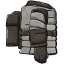
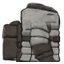
feat(crew): a suit's card is cut from the hero wearing it, waist up; skins show theirs

diff --git a/tools/anime-art/subjects/items.js b/tools/anime-art/subjects/items.js
@@ -832,26 +832,6 @@ P.jetpack = (a) => {
   for (const y of [5, 9.8]) a.shape(rr(.7, y, 14.6, 1.5, .2), GUN, { lite: band(.7, y, 15.3, y + .5), shade: band(.7, y + 1, 15.3, y + 1.5) });
   rivets(a, [8, 5.7], [8, 10.5]);
 };
-P.suit = (a) => {
-  // The patched coverall laid out flat (the basic suit, painted raw): drab olive canvas, the belt and straps grey, the collar's
-  // ring, rust-brown patches let in at the chest and a knee, stitched round.
-  const CANVAS = { base: '#7e7052', shade: '#5c5040', deep: '#433a30', lite: '#9c8e68', spec: '#bcae88' };
-  const MEND = { base: '#8a5a3e', shade: '#64402e', deep: '#4a3024', lite: '#a8744e' };
-  a.shape('M4.6 2.2L11.4 2.2L14.6 4L15.4 11.6L13 12.4L12.2 7.2L12 14.4L9 15.2L8 11.6L7 15.2L4 14.4L3.8 7.2L3 12.4L.6 11.6L1.4 4Z', CANVAS, {
-    lite: 'M4.6 2.2L8 2.2L7 5L4 6L3.6 7L3 12.4L2 12L2.4 4.2Z', shade: 'M11.4 2.2L14.6 4L15.4 11.6L14 12L13.4 5.4L12.2 7.2L12 14.4L10.6 14.8L10.8 3.6Z', deep: 'M4 13.4L7.4 13.4L7 15.2L4 14.4ZM8.6 13.4L12 13.4L12 14.4L9 15.2Z',
-    lines: ['M8 3.4L8 11.6', 'M3.8 7.2L3.2 4.4', 'M12.2 7.2L12.8 4.4'] });
-  const mend = (x, y, w, h) => {
-    a.shape(poly(x, y + .1, x + w, y, x + w + .1, y + h, x + .1, y + h + .1), MEND, { outer: false, shade: poly(x, y + h - .5, x + w + .1, y + h - .5, x + w + .1, y + h, x + .1, y + h + .1) });
-    let st = '';
-    for (let i = x + .3; i < x + w; i += .7) st += `M${i} ${y - .1}L${i + .1} ${y + .25}M${i} ${y + h - .15}L${i + .1} ${y + h + .2}`;
-    a.line(st, { w: .8 });
-  };
-  mend(9.2, 5, 2.2, 2); mend(4.6, 11.2, 2, 1.8);
-  a.shape(rr(3.8, 9, 8.4, 1.3, .15), GUN, { lite: band(3.8, 9, 12.2, 9.4), shade: band(3.8, 9.9, 12.2, 10.3) });
-  a.flat(rr(7.1, 8.8, 1.8, 1.7, .2), '#c0c8d0');
-  a.shape(ell(8, 2.6, 2.7, 1.3), DARK, { outer: false, deep: ell(8, 2.8, 2, .8) });
-  a.tube('M5.6 3.4L5.2 9', .8, GUN, { spec: false, bare: true }); a.tube('M10.4 3.4L10.8 9', .8, GUN, { spec: false, bare: true });
-};
 P.cape = (a) => {
   // The cloak bundled on itself, tied at the top: sand canvas in a few long folds, its teal lining turned out at both corners.
   const CANVAS = { base: '#a8895e', shade: '#755c44', deep: '#544234', lite: '#c8ac80', spec: '#e0cca4' };

diff --git a/tools/anime-art/subjects/heatSuit.js b/tools/anime-art/subjects/heatSuit.js
@@ -24,24 +24,17 @@ const STRAIGHT = {
   shin: { from: .37, to: .565, ramp: .1, smooth: .5, left: .8, right: null },
 };
 const SIZE = { torso: [12, 15], pack: [4, 12], upperArm: [5, 9], forearm: [5, 10], thigh: [6, 12], shin: [9, 11] };
-/** Where each part's picture lies on the card's jacket: its joint's place, less the joint (Figure.cs's Joints). */
-const STAND = { pack: [-3, 1.5], torso: [0, 0], upperArm: [3.5, .6], forearm: [3.5, 6.3] };
 
 const piece = (name) => 'heatSuit.' + name;
-/** A part's drawing in its picture's pixels, moved by `by`; k its units per world pixel (traced.js's drawer), the part's own by default. */
-function drawOf(name, by = [0, 0], k = null) {
-  const b = BOX[name], box = [b[0] + by[0], b[1] + by[1], b[2] + by[0], b[3] + by[1]], { s, at } = Traced.into(piece(name), box);
+/** A part's drawing in its picture's pixels (its card is cut from the hero wearing it: dev/SuitCards.cs). */
+function drawOf(name) {
+  const box = BOX[name], { s, at } = Traced.into(piece(name), box);
   let ops = Traced.placed(piece(name), s, at);
   if (STRAIGHT[name]) ops = Traced.straighten(ops, box, STRAIGHT[name]);
-  return Traced.drawer(piece(name), ops, k ?? TRACED[piece(name)].fit.units * (s[0] + s[1]) / 2);
+  return Traced.drawer(piece(name), ops, TRACED[piece(name)].fit.units * (s[0] + s[1]) / 2);
 }
 
 Subjects.heatSuit = function () {
   for (const name of Object.keys(BOX)) out(`hero_heatSuit_${name}`, HeroKit.part({ w: SIZE[name][0], h: SIZE[name][1], draw: drawOf(name) }));
-  // The card: the jacket as worn, the pack behind and the near arm hanging, fitted into the icon's 16.
-  const box = [-3.4, -1.4, 11.4, 17.8], u = (box[3] - box[1]) / 15.4, L = Anime.LINE;
-  const draws = ['pack', 'torso', 'upperArm', 'forearm'].map((n) => drawOf(n, STAND[n], u));
-  out('items/heatSuit', Anime.bake({ w: 16, h: 16, light: [-0.6, -0.8], units: u, shift: [(16 * u - (box[2] - box[0])) / 2 - box[0], (16 * u - (box[3] - box[1])) / 2 - box[1]],
-    W: { outer: L.outer * u, edge: L.edge * u, panel: L.panel * u }, draw: (a) => draws.forEach((d) => d(a)) }));
 };
 })();

diff --git a/tools/anime-art/subjects/hero.js b/tools/anime-art/subjects/hero.js
@@ -739,19 +739,6 @@ const regenSuit = {
     boot(a, BELL_RUBBER, 6.2, ['M4 6.8L4.5 9', 'M5.2 6.9L5.6 9']);
   },
 };
-/** The laid-out suit of the item card, as items/suit lies. */
-const LAID = 'M4.6 2.2L11.4 2.2L14.6 4L15.4 11.6L13 12.4L12.2 7.2L12 14.4L9 15.2L8 11.6L7 15.2L4 14.4L3.8 7.2L3 12.4L.6 11.6L1.4 4Z';
-function regenSuitCard(a) {
-  a.shape(LAID, QUILT, { lite: 'M4.6 2.2L8 2.2L7 5L4 6L3.6 7L3 12.4L2 12L2.4 4.2Z', shade: 'M11.4 2.2L14.6 4L15.4 11.6L14 12L13.4 5.4L12.2 7.2L12 14.4L10.6 14.8L10.8 3.6Z',
-    deep: 'M4 13.4L7.4 13.4L7 15.2L4 14.4ZM8.6 13.4L12 13.4L12 14.4L9 15.2Z', lines: ['M8 9.4L8 11.6', 'M3.8 7.2L3.2 4.4', 'M12.2 7.2L12.8 4.4', ...quilt(1, 2.4, 15, 14.8, 3)] });
-  cable(a, [4.4, 11.4, 6.6, 7, 11.4, 3.4], 3); cable(a, [11.6, 11.4, 9.4, 7, 4.6, 3.4], 3);
-  a.shape(rr(9.6, 10.6, 2.6, 2, .4), GUNM, { lite: band(9.7, 10.6, 12.1, 11) });
-  a.shape('M4.2 2C6 1.4 10 1.4 11.8 2L12.2 4.2L11.2 5.6L4.8 5.6L3.8 4.2Z', BELL_BRASS, { lite: band(4.2, 1.4, 11.8, 2.3), shade: band(3.8, 4.8, 12.2, 5.6) });
-  a.shape(ell(8, 2.6, 2, .9), DARKM, { outer: false });
-  for (const x of [5.6, 6.6, 8.8, 9.8]) a.flat(rr(x, 3.8, .45, 1.4, .12), UNLIT);
-  a.glow(rr(6.6, 3.8, .45, 1.4, .12), '#5c4898');
-  rustAt(a, 4.4, 4.6, .4);
-}
 /** A light drawn straight on a part's canvas, at its margin: a soft halo, then its core. */
 function lightPicture(w, h, draw) {
   const c = canvas((w + 2 * Margin) * Px, (h + 2 * Margin) * Px), x = c.getContext('2d');
@@ -842,7 +829,6 @@ Subjects.hero = function () {
     }
   }));
   out('hero_regenSuit_pip', lightPicture(12, 15, (paint) => paint(ell(10.2, 11.5, .4), PIP, PIP)));
-  out('items/regenSuit', bake({ w: 16, h: 16, light: [-0.6, -0.8], draw: regenSuitCard }));
 };
 
 /** A helmet's two pictures: the shell with its glass taken out (what crosses the glass, <paramref name="bars"/>, kept), and the glass alone at GLASS_SEEN over the face. */

diff --git a/game/dev/SuitCards.cs b/game/dev/SuitCards.cs
@@ -1,0 +1,106 @@
+using System;
+using System.Collections.Generic;
+using System.Linq;
+using Godot;
+using Stillwake.Game.Features.Crew;
+using Stillwake.Game.Render;
+
+namespace Stillwake.Game.Dev;
+
+/// <summary>
+/// <c>-- --suit-cards=&lt;art folder&gt;</c>: every suit's card, and every suit skin's, cut from the hero wearing it (skins): standing
+/// headless on nothing, from its collar down to just under its hips, fitted to the card. A suit's is written as
+/// <c>items/&lt;id&gt;.png</c>, a skin's as <c>skins/&lt;id&gt;.png</c>; then the game quits. A suit drawn in new parts gets its card
+/// from the rig that wears it, never by hand.
+/// </summary>
+public partial class SuitCards(string folder) : Node
+{
+    /// <summary>The card's side and the room left round the suit on it, in hd pixels.</summary>
+    private const int Card = ItemIcons.Pixels * HiRes.Scale, Room = 2;
+    private const int View = 224;
+    /// <summary>How far under the hip joint the card's foot is cut, a share of the hero's height: the hanging forearm and the top of the thighs show.</summary>
+    private const double UnderHip = 0.07;
+
+    private readonly List<(string Body, string Path)> _cards = [];
+    private SubViewport _view = null!;
+    private Node2D _world = null!;
+    private Figure? _figure;
+    private int _card = -1, _frames;
+
+    public override void _Ready()
+    {
+        foreach (var item in Content.Items.All.Where(i => i.Equip == Stillwake.Content.Suit.Slot)) _cards.Add((item.Id, $"items/{item.Id}.png"));
+        foreach (var skin in Skins.All.Where(s => s.Kind == Skins.Suit)) _cards.Add((skin.Id, $"skins/{skin.Id}.png"));
+        _view = new SubViewport
+        {
+            Size = new Vector2I(View, View),
+            TransparentBg = true,
+            RenderTargetUpdateMode = SubViewport.UpdateMode.Always,
+            CanvasItemDefaultTextureFilter = Viewport.DefaultCanvasItemTextureFilter.Nearest,
+        };
+        AddChild(_view);
+        _world = new Node2D();
+        _view.AddChild(_world);
+        _view.AddChild(new Camera2D { Zoom = new Vector2(HiRes.Scale, HiRes.Scale), Position = new Vector2(0, (float)(-Rig.H / 2)), Enabled = true });
+        Lit.Ambient((1, 1, 1));
+        Next();
+    }
+
+    private void Next()
+    {
+        _card++;
+        _frames = 0;
+        _figure?.QueueFree();
+        _figure = null;
+        if (_card >= _cards.Count)
+        {
+            GD.Print($"suit cards: {_cards.Count} written into {folder}");
+            GetTree().Quit();
+            return;
+        }
+        int colour = Suits.All[0];
+        _figure = new Figure(colour, own: false) { Tracked = false, Headless = true };
+        _figure.Wear(colour, null, _cards[_card].Body);
+        _world.AddChild(_figure);
+        for (int i = 0; i < 40; i++) _figure.Show(new Hero(0, 0, 0, 0, false, 1), Pose.Stand, 0, false, 1000.0 / 60);
+        _figure.Position = Vector2.Zero;
+    }
+
+    public override void _Process(double delta)
+    {
+        if (_card >= _cards.Count || ++_frames < 3) return;
+        var shot = _view.GetTexture().GetImage();
+        shot.Convert(Image.Format.Rgba8);
+        var card = CardOf(shot);
+        string path = $"{folder}/{_cards[_card].Path}";
+        DirAccess.MakeDirRecursiveAbsolute(path.GetBaseDir());
+        card.SavePng(path);
+        Next();
+    }
+
+    // The suit from its top down to the cut under the hips, its colours as drawn (the view's are over nothing, so weighed by their
+    // cover), fitted into the card with room round it, centred.
+    private static Image CardOf(Image shot)
+    {
+        int feet = (int)Math.Round(View / 2 + Rig.H / 2 * HiRes.Scale);
+        int cut = feet - (int)Math.Round((Rig.Hip - Rig.H * UnderHip) * HiRes.Scale);
+        int x0 = View, x1 = -1, y0 = View;
+        for (int y = 0; y < cut; y++)
+            for (int x = 0; x < View; x++)
+                if (shot.GetPixel(x, y).A > 0)
+                    (x0, x1, y0) = (Math.Min(x0, x), Math.Max(x1, x), Math.Min(y0, y));
+        var suit = shot.GetRegion(new Rect2I(x0, y0, x1 - x0 + 1, cut - y0));
+        for (int y = 0; y < suit.GetHeight(); y++)
+            for (int x = 0; x < suit.GetWidth(); x++)
+            {
+                var c = suit.GetPixel(x, y);
+                if (c.A > 0) suit.SetPixel(x, y, new Color(Math.Min(1, c.R / c.A), Math.Min(1, c.G / c.A), Math.Min(1, c.B / c.A), c.A));
+            }
+        double k = Math.Min((Card - 2.0 * Room) / suit.GetWidth(), (Card - 2.0 * Room) / suit.GetHeight());
+        int w = (int)Math.Round(suit.GetWidth() * k), h = (int)Math.Round(suit.GetHeight() * k);
+        suit.Resize(w, h, Image.Interpolation.Lanczos);
+        var card = Image.CreateEmpty(Card, Card, false, Image.Format.Rgba8);
+        card.BlitRect(suit, new Rect2I(0, 0, w, h), new Vector2I((Card - w) / 2, (Card - h) / 2));
+        return card;
+    }
+}

diff --git a/game/features/crew/SkinSlot.cs b/game/features/crew/SkinSlot.cs
@@ -1,4 +1,5 @@
 using System;
+using System.Collections.Generic;
 using Godot;
 using Stillwake.Game.Render;
 using Stillwake.Game.Shared;
@@ -6,17 +7,21 @@ using Stillwake.Game.Shared;
 namespace Stillwake.Game.Features.Crew;
 
 /// <summary>
-/// One slot of the Appearance tab (skins), as an equipment slot looks: a skin's picture, a weapon effect's own swing caught
-/// still (<see cref="BladeFx"/>), or for none a slashed ring; a skin this player may not pick dimmed under a padlock.
+/// One slot of the Appearance tab (skins), as an equipment slot looks: a skin's card (a suit's cut from the hero wearing it,
+/// <c>skins/&lt;id&gt;</c>), a weapon effect's own swing caught still (<see cref="BladeFx"/>), or for none a slashed ring; a skin this player may not pick dimmed under a padlock.
 /// </summary>
 public partial class SkinSlot : Control
 {
     private static readonly Color Mark = Style.Slate500, Lock = new("e2e8f0"), LockShade = new("0b1220");
+    private static readonly Dictionary<string, Texture2D?> Cards = new();
+    /// <summary>The room round a card inside the slot, px.</summary>
+    private const float Inset = 3;
 
     private readonly int _size;
     private string? _id;
     private bool _owned = true, _chosen, _hovered;
     private EffectPreview? _preview;
+    private Texture2D? _card;
 
     /// <summary>A left click on it.</summary>
     public event Action? Pressed;
@@ -45,6 +50,7 @@ public partial class SkinSlot : Control
             _preview?.QueueFree();
             _preview = id != null && SkinEffects.Of(id) is { } look ? new EffectPreview(look, _size) : null;
             if (_preview != null) AddChild(_preview);
+            _card = id == null || _preview != null ? null : CardOf(id);
         }
         (_id, _owned, _chosen) = (id, owned, chosen);
         if (_preview != null) _preview.Modulate = new Color(1, 1, 1, owned ? 1 : 0.4f);
@@ -60,6 +66,7 @@ public partial class SkinSlot : Control
     public override void _Draw()
     {
         DrawStyleBox(SlotLooks.Of(_chosen ? SlotTint.Worn : SlotTint.Plain, _hovered, false), new Rect2(Vector2.Zero, Size));
+        if (_card != null) DrawTextureRect(_card, new Rect2(new Vector2(Inset, Inset), Size - new Vector2(2 * Inset, 2 * Inset)), false, new Color(1, 1, 1, _owned ? 1 : 0.4f));
         var middle = Size / 2;
         if (_id == null)
         {
@@ -68,6 +75,12 @@ public partial class SkinSlot : Control
             DrawLine(middle + new Vector2(-r, r) * 0.7f, middle + new Vector2(r, -r) * 0.7f, Mark, 1.5f, true);
         }
         if (!_owned) Padlock(new Vector2(Size.X - 9, Size.Y - 9));
+    }
+
+    private static Texture2D? CardOf(string id)
+    {
+        if (!Cards.TryGetValue(id, out var card)) Cards[id] = card = HiRes.Load($"skins/{id}") is { } image ? HiRes.Texture(image) : null;
+        return card;
     }
 
     // A padlock 8 px wide round its middle at the slot's foot corner: a shackle over a body, on a dark halo.

diff --git a/game/dev/logic/DevModes.cs b/game/dev/logic/DevModes.cs
@@ -62,6 +62,7 @@ public static class DevModes
         new("--bow", DevShape.Next, "with --fly, the start N columns ahead of the bow, in the stream (FarDemo.Bow)"),
         new("--pose-sheet", DevShape.Equals, "the hero's holds drawn alone and saved to that folder, nothing else made (PoseSheet)"),
         new("--pose-item", DevShape.Equals, "with --pose-sheet, the item held; the drill by default"),
+        new("--suit-cards", DevShape.Equals, "every suit's and suit skin's card, cut from the hero wearing it, written into that art folder, nothing else made (SuitCards)"),
         new("--dress-sheet", DevShape.Equals, "the hero bare, in a helmet, a body and suited, in every colour, saved to that PNG, nothing else made (DressSheet)"),
         // Ship and doors.
         new("--doors", DevShape.Flag, "opens and shuts doors for recordings (Autopilot.At)"),

diff --git a/game/features/crew/Figure.cs b/game/features/crew/Figure.cs
@@ -608,6 +608,9 @@ public partial class Figure : Node2D
     /// <summary>Whether it wears the tracker on its shin: every hero does; a catcher drawn as one does not (tracker-catchers).</summary>
     public bool Tracked { get; set; } = true;
 
+    /// <summary>Whether its head and helmet are left undrawn: a suit's card shows the suit alone (<c>Dev.SuitCards</c>).</summary>
+    public bool Headless { set => _helmet.Visible = !value; }
+
     /// <summary>
     /// The world's layer its near arm and what it holds are drawn on, over the tufts its feet stand in (held-over-grass); none for a
     /// figure drawn whole on its own layer: a body, a seated hero, the title's.

diff --git a/game/Main.cs b/game/Main.cs
@@ -183,7 +183,7 @@ public partial class Main : Node2D, ITogether
         // Before anything is made that says anything.
         var language = _dev.Value("--lang");
         Speaking = language != null ? Languages.Named(language) ?? Language.English : Settings.Language();
-        if (PoseSheetOnly() || DressSheetOnly()) return;
+        if (PoseSheetOnly() || DressSheetOnly() || SuitCardsOnly()) return;
         QuitAfterAWhile();
         // First of all at its layer, before every shimmer (0075).
         AddChild(Shimmer.NewScreenCopy());

diff --git a/game/dev/Main.Dev.cs b/game/dev/Main.Dev.cs
@@ -44,6 +44,14 @@ public partial class Main
         return true;
     }
 
+    /// <summary><c>--suit-cards=&lt;art folder&gt;</c>: every suit's card drawn from the hero and written, nothing else made; whether it was given.</summary>
+    private bool SuitCardsOnly()
+    {
+        if (_dev.Value("--suit-cards") is not { } folder) return false;
+        AddChild(new Dev.SuitCards(folder));
+        return true;
+    }
+
     /// <summary><c>--for=seconds</c>: quits after a while.</summary>
     private void QuitAfterAWhile()
     {
